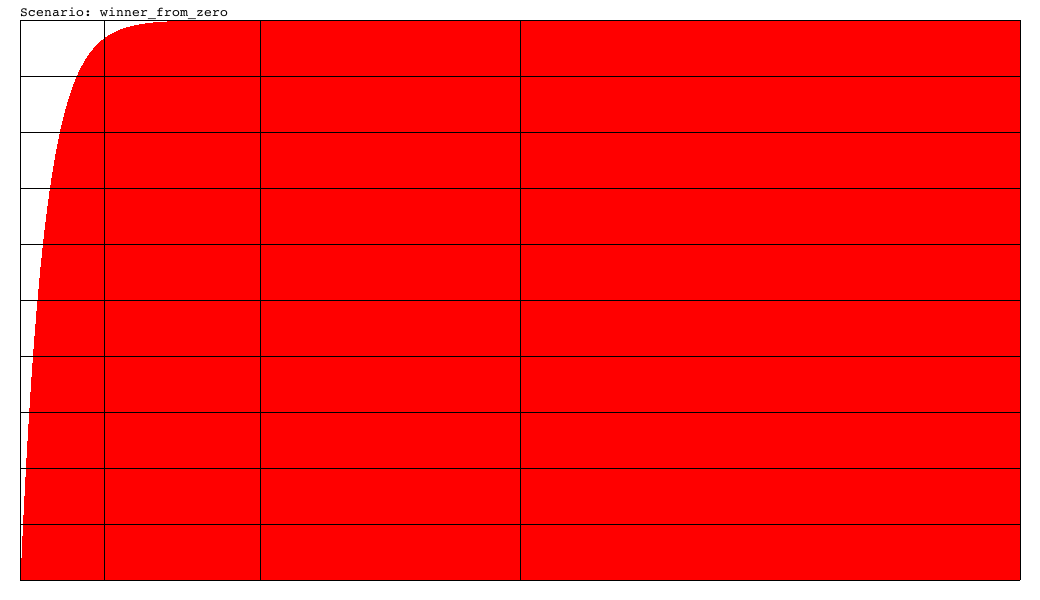
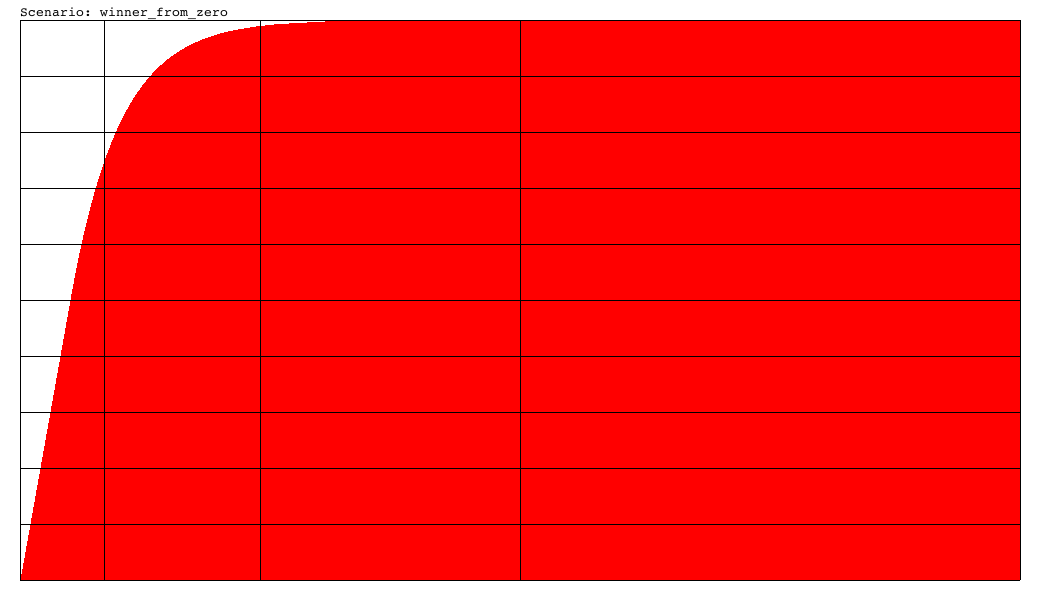
improvement(jsbattle-server): smoothen scoring characteristic

Changed region(s): [[0.0, 0.03, 0.2769, 0.93]]

diff --git a/packages/jsbattle-server/tools/scoringBenchmark/scenarios/jump_rnd.scenario.js b/packages/jsbattle-server/tools/scoringBenchmark/scenarios/jump_rnd.scenario.js
@@ -4,12 +4,18 @@ const rng = seedrandom(__filename);
 module.exports = {
   initScore: 0,
   step: (iteration) => {
-    let rnd = rng();
+    let winning;
+    if(iteration < 500) {
+      winning = (rng() > 0.9);
+    } else {
+      winning = (rng() > 0.1);
+    }
+
     return {
       id: 1,
       name: 'benchmark',
-      battleScore: rnd > 0.9 ? 0 : 300,
-      winner: rnd > 0.9 ? false : true
+      battleScore: winning ? 300 : 0,
+      winner: winning ? true : false
     }
   }
 

diff --git a/packages/jsbattle-server/tools/scoringBenchmark/run.js b/packages/jsbattle-server/tools/scoringBenchmark/run.js
@@ -22,10 +22,12 @@ function runScenario(scenario) {
   console.log(`Running ${scenario.name}`);
   let result = [];
   let score = scenario.initScore;
+  let fightsWin = 0;
   for(let i=0; i<width; i++) {
     result.push(score);
     let input = scenario.step(i);
-    score = calculateScore(score, input.winner);
+    fightsWin += input.winner ? 1 : 0;
+    score = calculateScore(score, input.winner, i, fightsWin);
   }
   return {
     name: scenario.name,

diff --git a/packages/jsbattle-server/tools/scoringBenchmark/scenarios/jump.scenario.js b/packages/jsbattle-server/tools/scoringBenchmark/scenarios/jump.scenario.js
@@ -1,14 +1,11 @@
-const seedrandom = require('seedrandom');
-const rng = seedrandom(__filename);
-
 module.exports = {
-  initScore: 10000,
+  initScore: 0,
   step: (iteration) => {
     let winning;
     if(iteration < 500) {
-      winning = (rng() > 0.1);
+      winning = !(iteration % 10);
     } else {
-      winning = (rng() > 0.9);
+      winning = !!(iteration % 10);
     }
 
     return {

diff --git a/packages/jsbattle-server/app/services/league/lib/calculateScore.js b/packages/jsbattle-server/app/services/league/lib/calculateScore.js
@@ -1,10 +1,9 @@
 module.exports = (currentScore, hasWon) => {
   let newScore;
   if(hasWon) {
-    newScore = currentScore + (10000 - currentScore)/25;
+    newScore = currentScore + Math.min(100, (10000 - currentScore)/50);
   } else {
-    newScore = currentScore + (0 - currentScore)/25;
+    newScore = currentScore - Math.min(100, currentScore/50);
   }
-
   return Math.round(newScore);
 }

diff --git a/packages/jsbattle-server/test/unit/services/League.spec.js b/packages/jsbattle-server/test/unit/services/League.spec.js
@@ -449,7 +449,7 @@ describe("Test 'League' service", () => {
 		expect(entity).toHaveProperty('fights_total', 3);
 		expect(entity).toHaveProperty('fights_win', 2);
 		expect(entity).toHaveProperty('fights_lose', 1);
-		expect(entity).toHaveProperty('score', 753);
+		expect(entity).toHaveProperty('score', 196);
 	});
 
 	it('should list the league',  async () => {

diff --git a/packages/jsbattle-server/app/services/League.service.js b/packages/jsbattle-server/app/services/League.service.js
@@ -191,7 +191,12 @@ class LeagueService extends Service {
       ]
     });
 
-    let newScore = calculateScore(entity.score, ctx.params.winner);
+    let newScore = calculateScore(
+      entity.score,
+      ctx.params.winner,
+      entity.fights_total,
+      entity.fights_win
+    );
 
     let newEntity = {
       id: entity.id,

diff --git a/packages/jsbattle-server/tools/scoringBenchmark/scenarios/10rnd_from_zero.scenario.js b/packages/jsbattle-server/tools/scoringBenchmark/scenarios/10rnd_from_zero.scenario.js
@@ -1,7 +1,10 @@
+const seedrandom = require('seedrandom');
+const rng = seedrandom(__filename);
+
 module.exports = {
   initScore: 0,
   step: (iteration) => {
-    let rnd = Math.random();
+    let rnd = rng();
     return {
       id: 1,
       name: 'benchmark',

diff --git a/packages/jsbattle-server/tools/scoringBenchmark/scenarios/1rnd_from_zero.scenario.js b/packages/jsbattle-server/tools/scoringBenchmark/scenarios/1rnd_from_zero.scenario.js
@@ -1,7 +1,10 @@
+const seedrandom = require('seedrandom');
+const rng = seedrandom(__filename);
+
 module.exports = {
   initScore: 0,
   step: (iteration) => {
-    let rnd = Math.random();
+    let rnd = rng();
     return {
       id: 1,
       name: 'benchmark',

diff --git a/packages/jsbattle-server/tools/scoringBenchmark/scenarios/50rnd_from_zero.scenario.js b/packages/jsbattle-server/tools/scoringBenchmark/scenarios/50rnd_from_zero.scenario.js
@@ -1,7 +1,10 @@
+const seedrandom = require('seedrandom');
+const rng = seedrandom(__filename);
+
 module.exports = {
   initScore: 0,
   step: (iteration) => {
-    let rnd = Math.random();
+    let rnd = rng();
     return {
       id: 1,
       name: 'benchmark',

diff --git a/packages/jsbattle-server/tools/scoringBenchmark/scenarios/99rnd_from_zero.scenario.js b/packages/jsbattle-server/tools/scoringBenchmark/scenarios/99rnd_from_zero.scenario.js
@@ -1,7 +1,10 @@
+const seedrandom = require('seedrandom');
+const rng = seedrandom(__filename);
+
 module.exports = {
   initScore: 0,
   step: (iteration) => {
-    let rnd = Math.random();
+    let rnd = rng();
     return {
       id: 1,
       name: 'benchmark',
